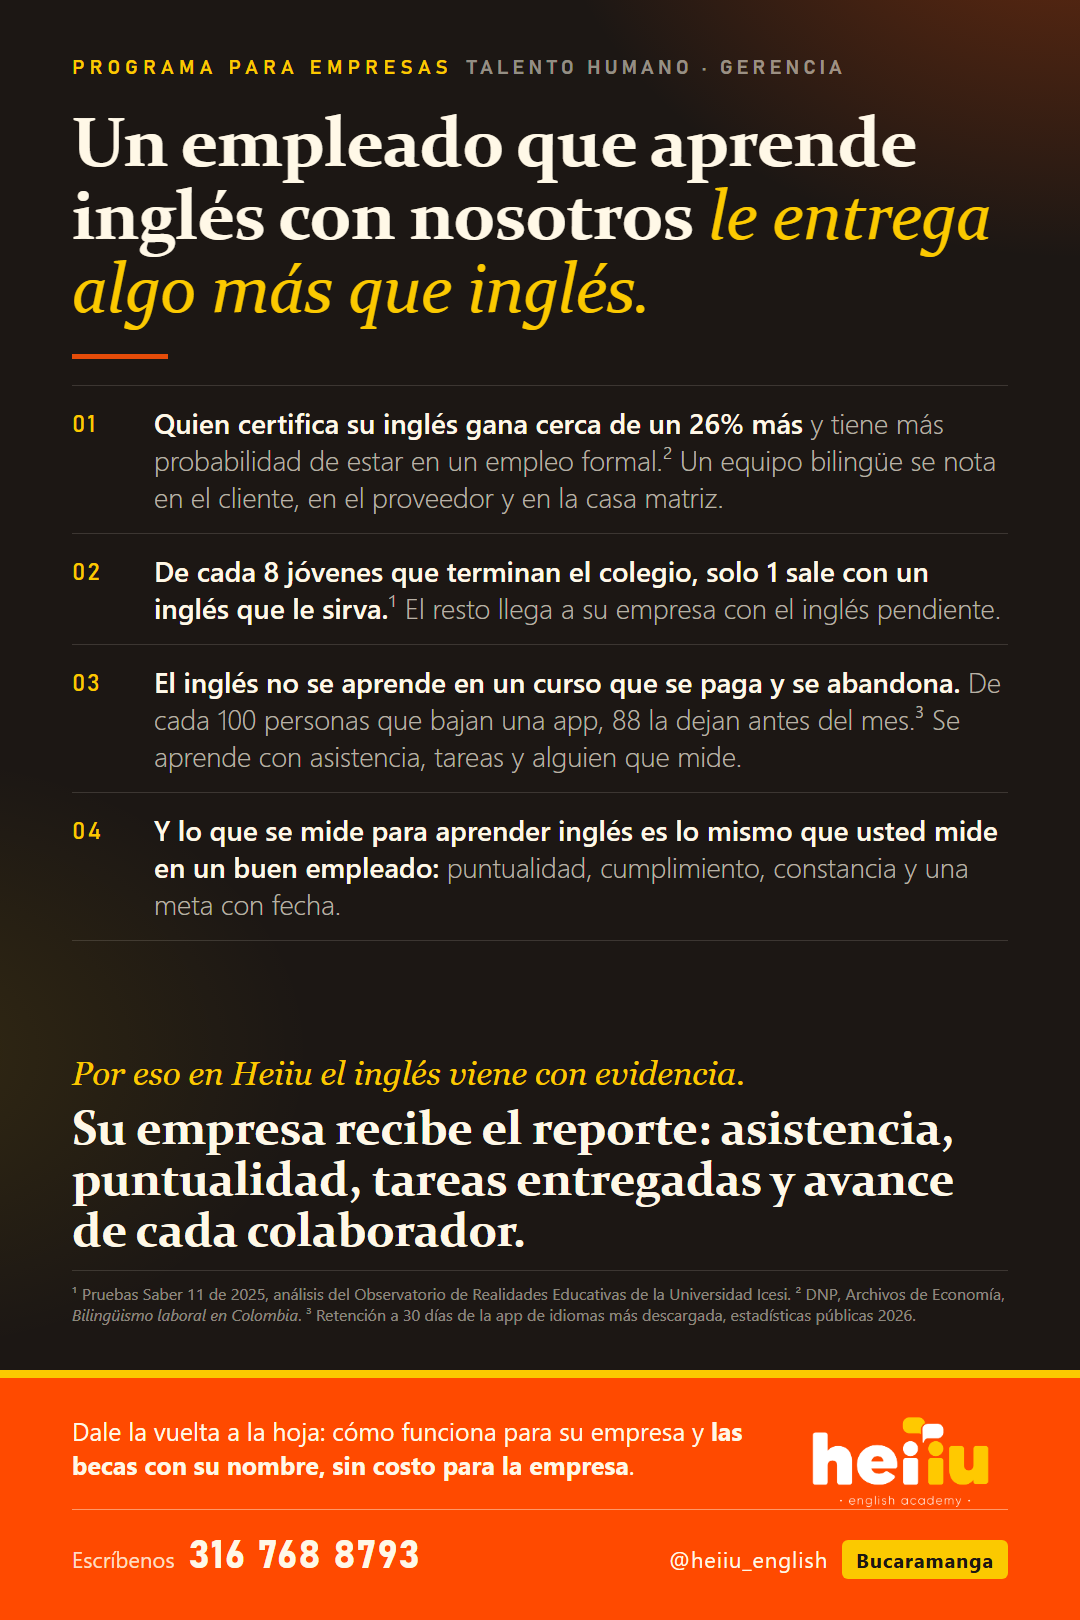
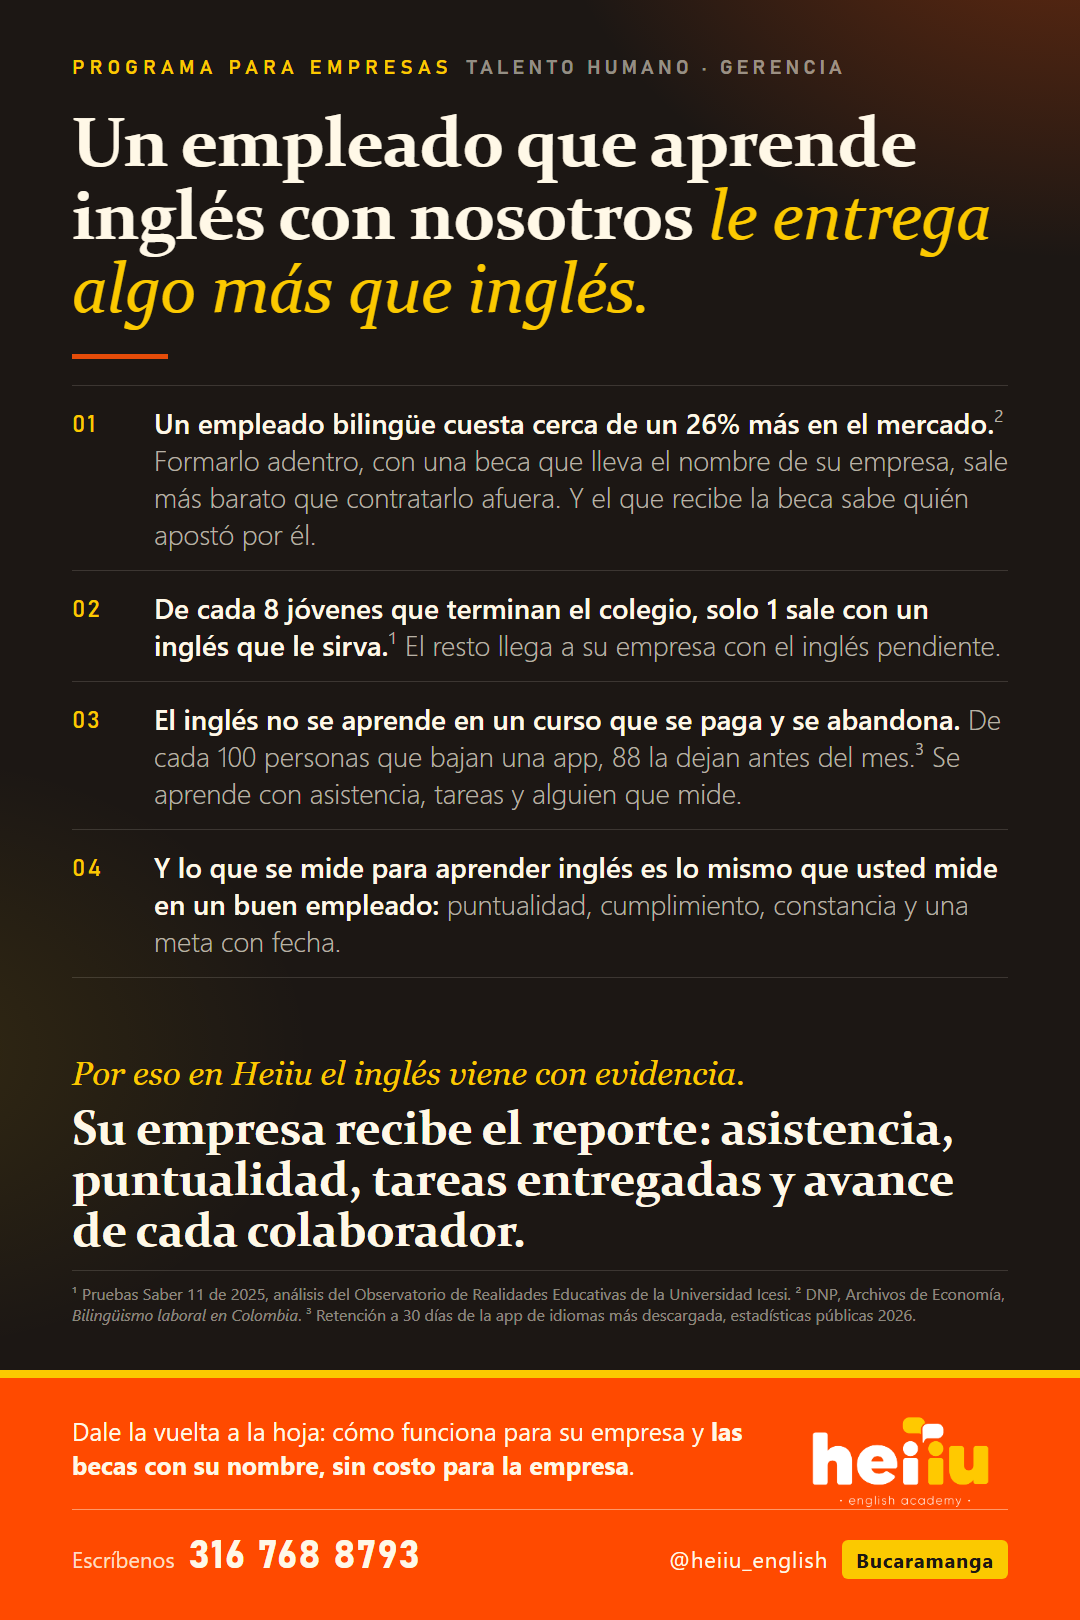
Pieza empresas: el 26% desde el lado del empresario (formarlo adentro con beca sale mas barato que contratar bilingue afuera, y compra lealtad)

Changed region(s): [[0.1222, 0.2469, 0.9472, 0.5864], [0.0611, 0.3395, 0.0917, 0.463], [0.0611, 0.4938, 0.0917, 0.5556]]

diff --git a/generadores/comercial/gen_piezas_conciencia.py b/generadores/comercial/gen_piezas_conciencia.py
@@ -240,7 +240,7 @@ PIEZAS = {
     'EMPRESAS_FRENTE': dict(   # pedido del gerente de alianzas 25/10/2026: lo que la empresa recibe ademas del ingles (habitos medidos y reporte), para presentar en empresas; de usted
         compact=True, label='PROGRAMA PARA EMPRESAS', sub='TALENTO HUMANO · GERENCIA',
         h1='Un empleado que aprende inglés con nosotros <em>le entrega algo más que inglés.</em>',
-        st=[('<b>Quien certifica su inglés gana cerca de un 26% más</b> y tiene más probabilidad de estar en un empleo formal.² Un equipo bilingüe se nota en el cliente, en el proveedor y en la casa matriz.'),
+        st=[('<b>Un empleado bilingüe cuesta cerca de un 26% más en el mercado.</b>² Formarlo adentro, con una beca que lleva el nombre de su empresa, sale más barato que contratarlo afuera. Y el que recibe la beca sabe quién apostó por él.'),
             ('<b>De cada 8 jóvenes que terminan el colegio, solo 1 sale con un inglés que le sirva.</b>¹ El resto llega a su empresa con el inglés pendiente.'),
             ('<b>El inglés no se aprende en un curso que se paga y se abandona.</b> De cada 100 personas que bajan una app, 88 la dejan antes del mes.³ Se aprende con asistencia, tareas y alguien que mide.'),
             ('<b>Y lo que se mide para aprender inglés es lo mismo que usted mide en un buen empleado:</b> puntualidad, cumplimiento, constancia y una meta con fecha.')],
